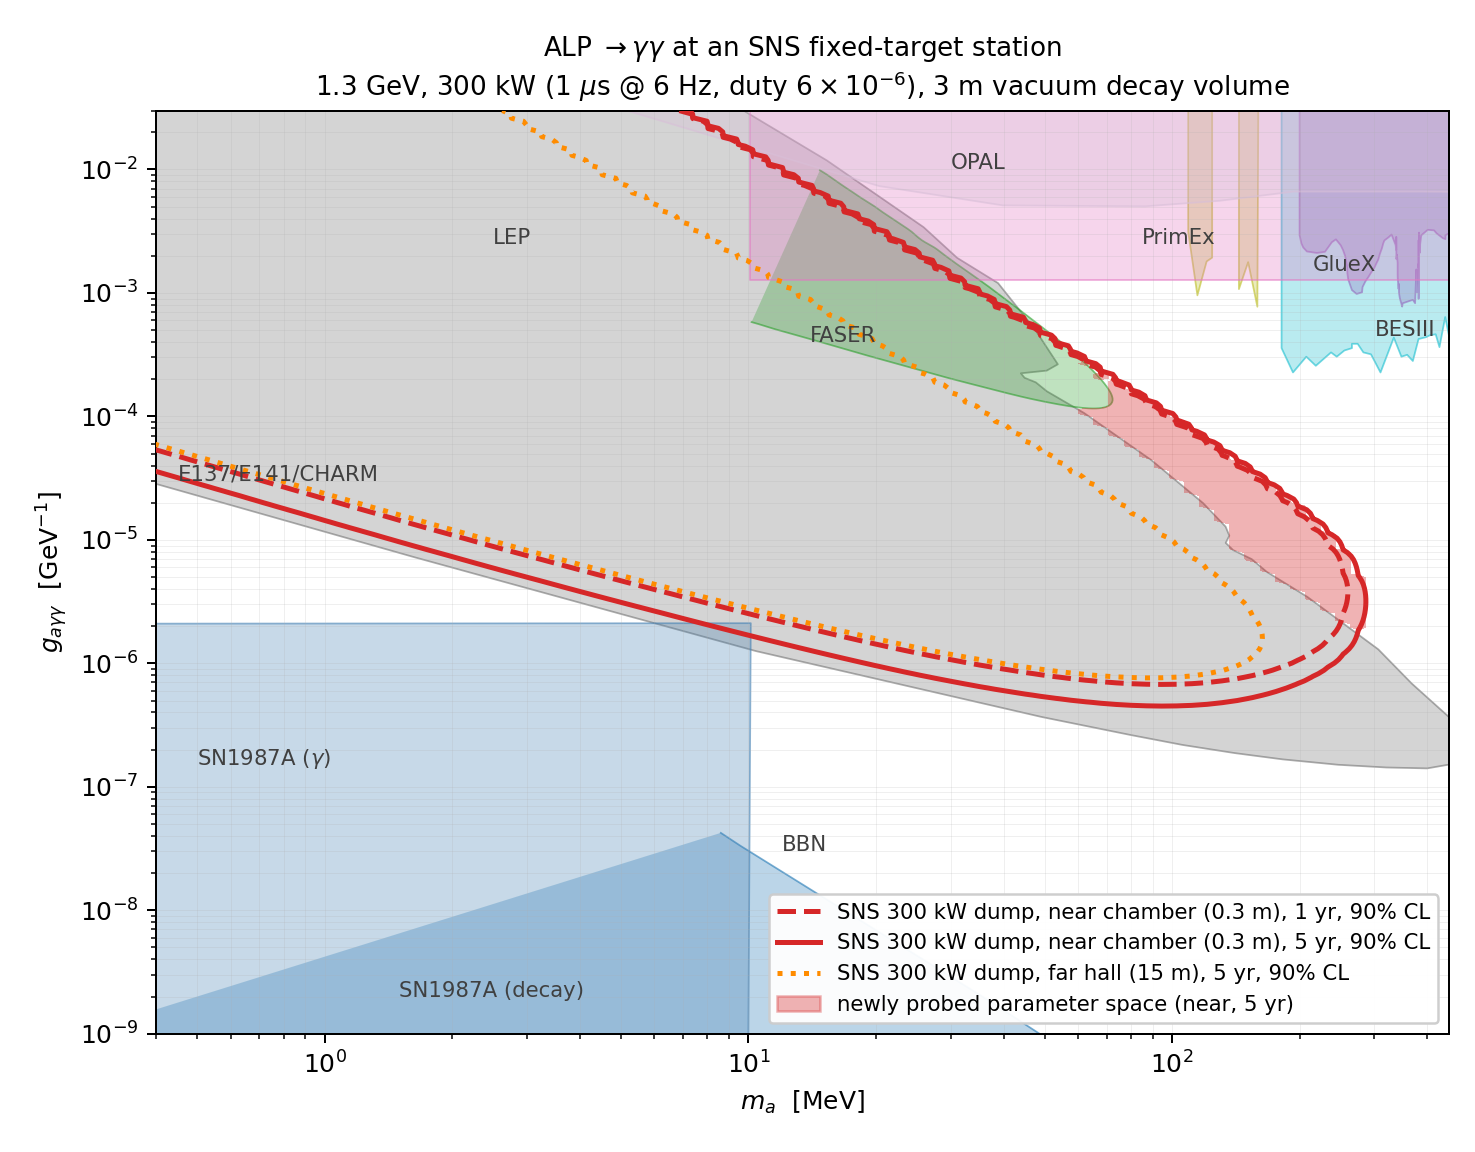
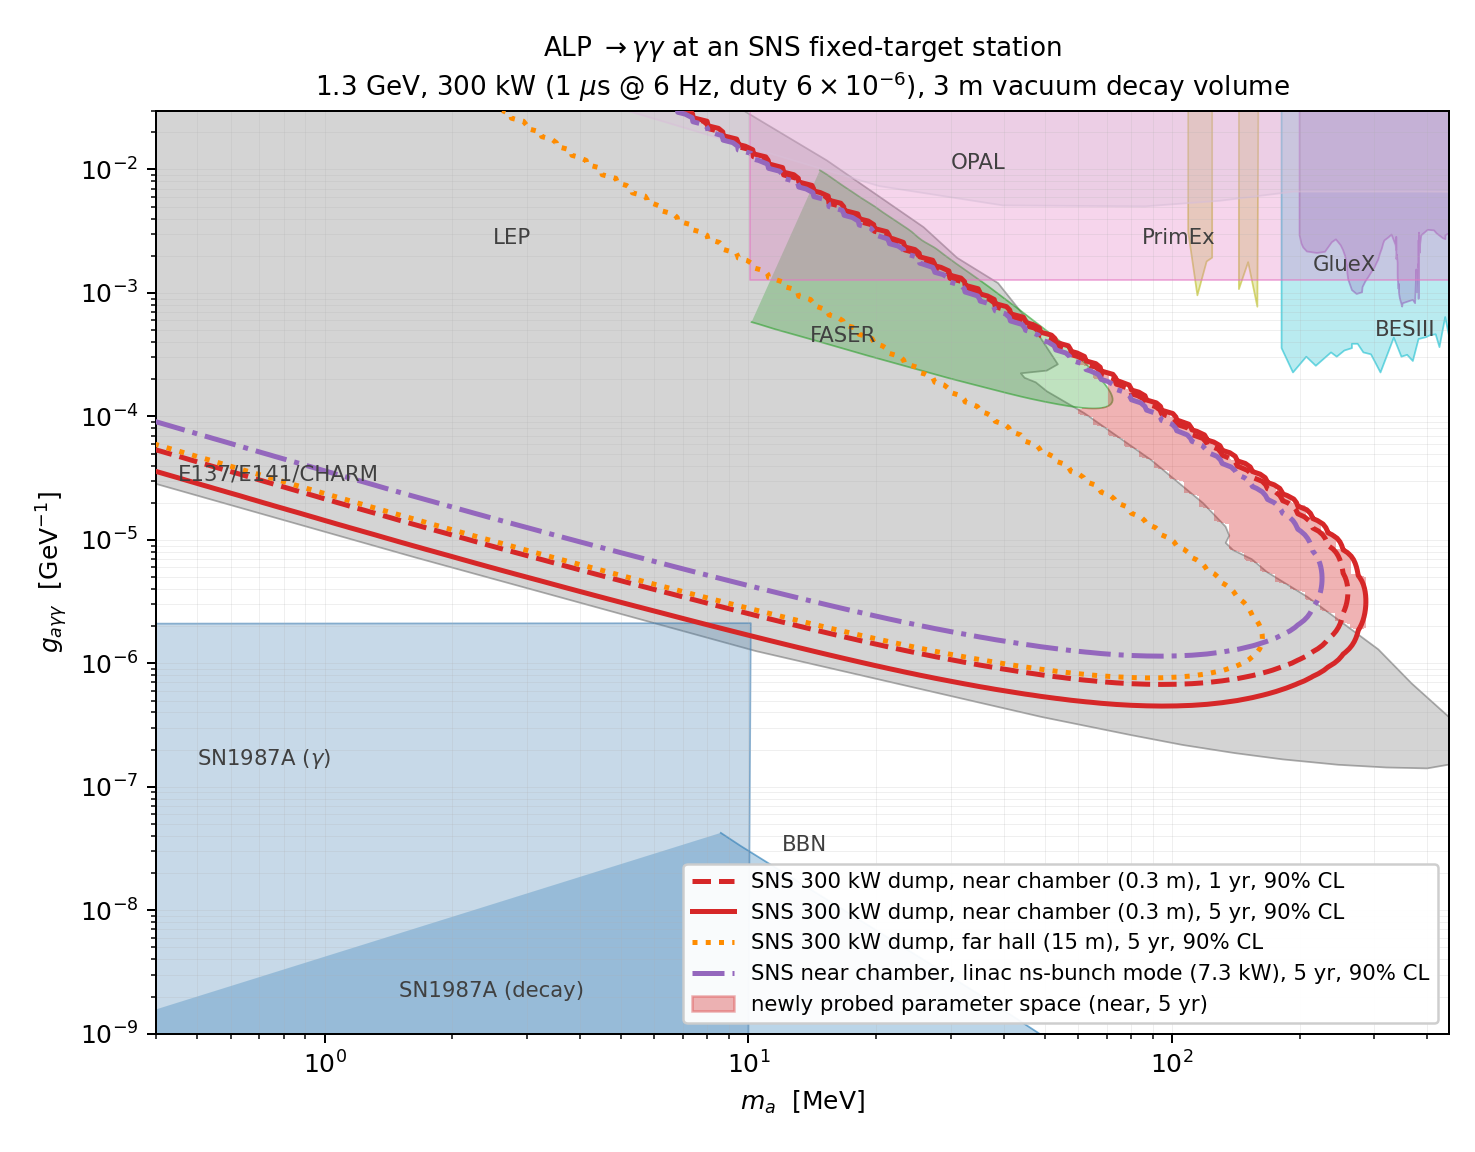
Analyze 400 MHz ring modulation and 2.4 ns laser-stripped bunch options
Geant4 data show neutron and prompt-nu arrivals are uniform modulo the
2.48 ns RF period while beta~1 signal is phase-locked: a 400 MHz comb on
the extracted ring pulse cuts phase-uniform backgrounds 7-17x at full
300 kW (far-hall DM below the prompt-nu floor; velocity spectroscopy).
Sparse ps laser-stripped bunches (1/us, 7.3 kW, 6.4e20 POT/yr) give a
truly zero-background near chamber; added its 5 yr contour to the ALP
limit plot (floor only ~2.5x above the 300 kW mode, POT^1/4 scaling).

https://claude.ai/code/session_01AsUbXz3ZYFWBZ5WLNEzJey

diff --git a/study/alp_sensitivity.py b/study/alp_sensitivity.py
@@ -175,6 +175,14 @@ def main():
         results[key] = N
         print(f"{key}: max N_sig = {N.max():.3g}")
 
+    # linac ns-bunch mode: sparse 402.5 MHz micro-bunches (5.9e8 p) at 1 MHz
+    # during the 1 ms macropulse, 60 Hz -> 7.3 kW, 6.4e20 POT/yr, but with
+    # event-by-event TOF (true zero-background near chamber).
+    POT_NSBUNCH = 6.4e20
+    results["near ns-bunch 5 yr"] = signal_yield(
+        m_grid, g_grid, E_bins, f_gamma, POT_NSBUNCH * 5.0, **CONFIGS["near"])
+    print(f"near ns-bunch 5 yr: max N_sig = {results['near ns-bunch 5 yr'].max():.3g}")
+
     # ------------------------------------------------------------------
     # Plot
     # ------------------------------------------------------------------
@@ -207,17 +215,21 @@ def main():
         "near 1 yr": ("--", "tab:red"),
         "near 5 yr": ("-", "tab:red"),
         "far 5 yr": (":", "darkorange"),
+        "near ns-bunch 5 yr": ("-.", "tab:purple"),
     }
     names = {
         "near 1 yr": "near chamber (0.3 m), 1 yr",
         "near 5 yr": "near chamber (0.3 m), 5 yr",
         "far 5 yr": "far hall (15 m), 5 yr",
+        "near ns-bunch 5 yr": "near chamber, linac ns-bunch mode (7.3 kW), 5 yr",
     }
     for key, (ls, col) in styles.items():
         ax.contour(mg, g_grid, results[key].T, levels=[N90],
                    colors=[col], linestyles=[ls], linewidths=2, zorder=5)
+        label = names[key]
+        prefix = "SNS 300 kW dump, " if "ns-bunch" not in key else "SNS "
         ax.plot([], [], ls=ls, color=col, lw=2,
-                label=f"SNS 300 kW dump, {names[key]}, 90% CL")
+                label=f"{prefix}{label}, 90% CL")
 
     ax.set_xscale("log")
     ax.set_yscale("log")

diff --git a/docs/rf_structure_options.md b/docs/rf_structure_options.md
@@ -1,0 +1,104 @@
+# RF Time-Structure Options: 400 MHz Ring Modulation and 2.4 ns Laser-Stripped Bunches
+
+Two beam-structure upgrades beyond the four workshop options, and what each buys
+the BSM program. Quantitative statements use the Geant4 flash simulation
+([`../study/geant/`](../study/geant/README.md)) and the ALP sensitivity machinery
+([`../study/`](../study/README.md)).
+
+## 1. 400 MHz modulation of the extracted ring pulse
+
+**What it is.** Preserve (or re-impose) the linac's 402.5 MHz structure on the
+~700 ns extracted pulse: a comb of ~100–300 ps micro-buckets every 2.48 ns,
+at the full 300 kW. The detector then measures arrival *phase* relative to the
+RF, not just arrival within the macro-pulse.
+
+**The key fact (measured in our Geant4 data + analytic):** every dangerous
+background is **uniform in RF phase**, while signal is **phase-locked**:
+
+| Population | timing relative to 2.48 ns comb | in a 0.35 ns gate |
+|---|---|---|
+| ALPs, dark photons, π⁰-portal DM (β ≈ 1; π⁰ decays in 10⁻¹⁶ s) | phase-locked | ~100% |
+| Beam neutrons at 3.6 m / 15 m | uniform (measured: in-gate fraction 0.142 vs uniform 0.141) | 14% |
+| Prompt ν_µ from π⁺ DAR (τ_π = 26 ns ≫ 2.48 ns) | uniform | 14% |
+| Steady-state (cosmics etc.) | uniform | 14% (duty → 8×10⁻⁷) |
+
+So a phase gate is a **~7–17× cut on every background at zero signal cost and
+zero power cost** (7× for a 0.35 ns gate, 17× for 0.15 ns, set by calorimeter
+timing). It is a frequency-domain (lock-in) version of the short-pulse trick.
+
+**BSM applications:**
+
+1. **Beating the prompt-neutrino floor in the far-hall DM search.** In the
+   COHERENT-style analysis, relativistic DM and prompt ν_µ occupy the *same*
+   prompt window — the ν_µ is the irreducible floor. The RF comb splits them:
+   DM is phase-locked to the production bucket, ν_µ is phase-uniform because
+   the parent π⁺ forgets the bucket over its 26 ns lifetime. A 7–17× prompt-ν
+   suppression at full 300 kW directly extends the dark-photon/DM (ε, y) reach
+   in the background-limited regime.
+2. **Velocity spectroscopy on any discovery.** A phase slip
+   Δt = (L/c)(1/β − 1), measurable at the ~100 ps level over 15–25 m, turns
+   a candidate excess into a mass measurement, and off-phase populations tag
+   slow heavy states (the MiniBooNE / T2K off-bucket search technique,
+   here with 20× finer combs).
+3. **What it does *not* fix:** the near-chamber in-pulse flash only drops from
+   ~2.6×10¹³ to ~3×10¹² per pulse in-gate — still hopeless. The near chamber
+   needs option 2 below.
+
+**Feasibility flag for the accelerator group:** ring revolution frequency is
+~1.06 MHz, and 402.5 MHz is *not* an integer harmonic; preserving the comb
+through 1060-turn accumulation requires an h ≈ 380 RF system (~402 MHz) with
+enough voltage to prevent debunching, or RF re-bunching in the extraction
+line. This is the question to pose; the physics payoff above is the
+justification.
+
+## 2. 2.4 ns bunch structure from precision laser stripping
+
+**What it is.** A stripping laser phase-locked to the 402.5 MHz linac
+structure extracts *individual micro-bunches*: ~50 ps long, ~5.9×10⁸ protons
+each (38 mA peak / 402.5 MHz), with fully programmable spacing — from every
+bucket (≈100 kW) down to arbitrarily sparse trains. This is the strongest
+version of the "gated micro-slice" idea: each event gets an unambiguous,
+ps-precision production-time reference.
+
+**The sweet spot is a sparse train: one bucket per ~1 µs** (1 MHz during the
+1 ms macropulse, 60 Hz): **7.3 kW, 6.4×10²⁰ POT/yr**, parasitic to the
+neutron program. The 1 µs spacing lets each bunch's neutron flash clear the
+3.6 m hall (98.5% of neutrons arrive within 1 µs) before the next bunch.
+
+**Geant4-anchored background budget per bunch, in the γ-TOF signal gate
+(0.35 ns) at the calorimeter face, bare dump:**
+
+| Source | per bunch in gate | mitigation |
+|---|---|---|
+| photons > 30 MeV | 1.2×10⁴ | ~20 X₀ Pb plug on dump face → < 1 |
+| neutrons, same bunch | ~0 (needs β > 0.96 ⇒ T_n > 2.4 GeV) | kinematically excluded |
+| neutrons, previous bunches (µs-aliased) | ~30, vertex-less | diphoton vertex + mass |
+| steady-state | in-gate duty 1.3×10⁻⁹ | negligible |
+
+This is the configuration where the **zero-background assumption of the ALP
+study is actually defensible**, with each candidate independently verified by
+TOF.
+
+**Sensitivity cost of the lower power:** added as the purple contour in
+[`../study/alp_limit_plot.png`](../study/alp_limit_plot.png). With 5 yr
+(3.2×10²¹ POT) the exclusion floor sits only ~2.5× above the 300 kW near-chamber
+curve — near the floor the zero-background limit scales as POT^(1/4) — and the
+high-coupling ceiling, which is exponential in geometry rather than statistics,
+barely moves. **The ns-bunch mode covers most of the newly probed wedge at 2%
+of the beam power**, and it can run from day one at the phase-1 linac station.
+
+## 3. The combined program
+
+| Beam mode | Station | Power | Role |
+|---|---|---|---|
+| 2b: 700 ns @ 6 Hz | far hall | 300 kW | DM scattering, CEvNS/NSI, steriles |
+| 2b + 400 MHz comb | far hall | 300 kW | DM below the prompt-ν floor; β spectroscopy |
+| linac 2.4 ns sparse train | near chamber | ~7 kW | ALP → γγ wedge, true zero background |
+| linac 2.4 ns full train | near chamber | ≤100 kW | ALP statistics running with phase gating, if flash occupancy allows |
+
+The two upgrades are complementary, not competing: **400 MHz modulation is a
+far-hall (scattering) tool — it rescues full beam power for searches limited
+by phase-uniform backgrounds — while ps laser-stripped bunches are the
+near-chamber (decay) tool — they buy event-by-event TOF where no amount of
+power helps.** Together they would make the SNS the only facility offering
+both a 300 kW phase-combed DAR source and a ps-timed beam-dump line.

diff --git a/docs/experiment_design.md b/docs/experiment_design.md
@@ -106,9 +106,12 @@ make signal-photon TOF windows fully background-free between slices.
 
 ## 7. Open questions / R&D
 
-1. Laser-stripping gating: can the linac station deliver ns micro-slices, and
-   at what extracted power? (Determines whether the near chamber runs at the
-   linac or ring station.)
+1. Laser-stripping gating: can the linac station deliver 402.5 MHz-locked
+   ~50 ps micro-bunches in a sparse train, and can the ring preserve a
+   400 MHz comb through accumulation? Both upgrades are analyzed in
+   [rf_structure_options.md](rf_structure_options.md): the former enables the
+   zero-background near chamber at 7 kW, the latter cuts every phase-uniform
+   far-hall background 7-17x at full power.
 2. Kicker extraction at 6 Hz: real pulse shape and extraction gap; trade
    against FTS/STS availability.
 3. Dump thermal design at 50 kJ/pulse with a thin downstream face.
